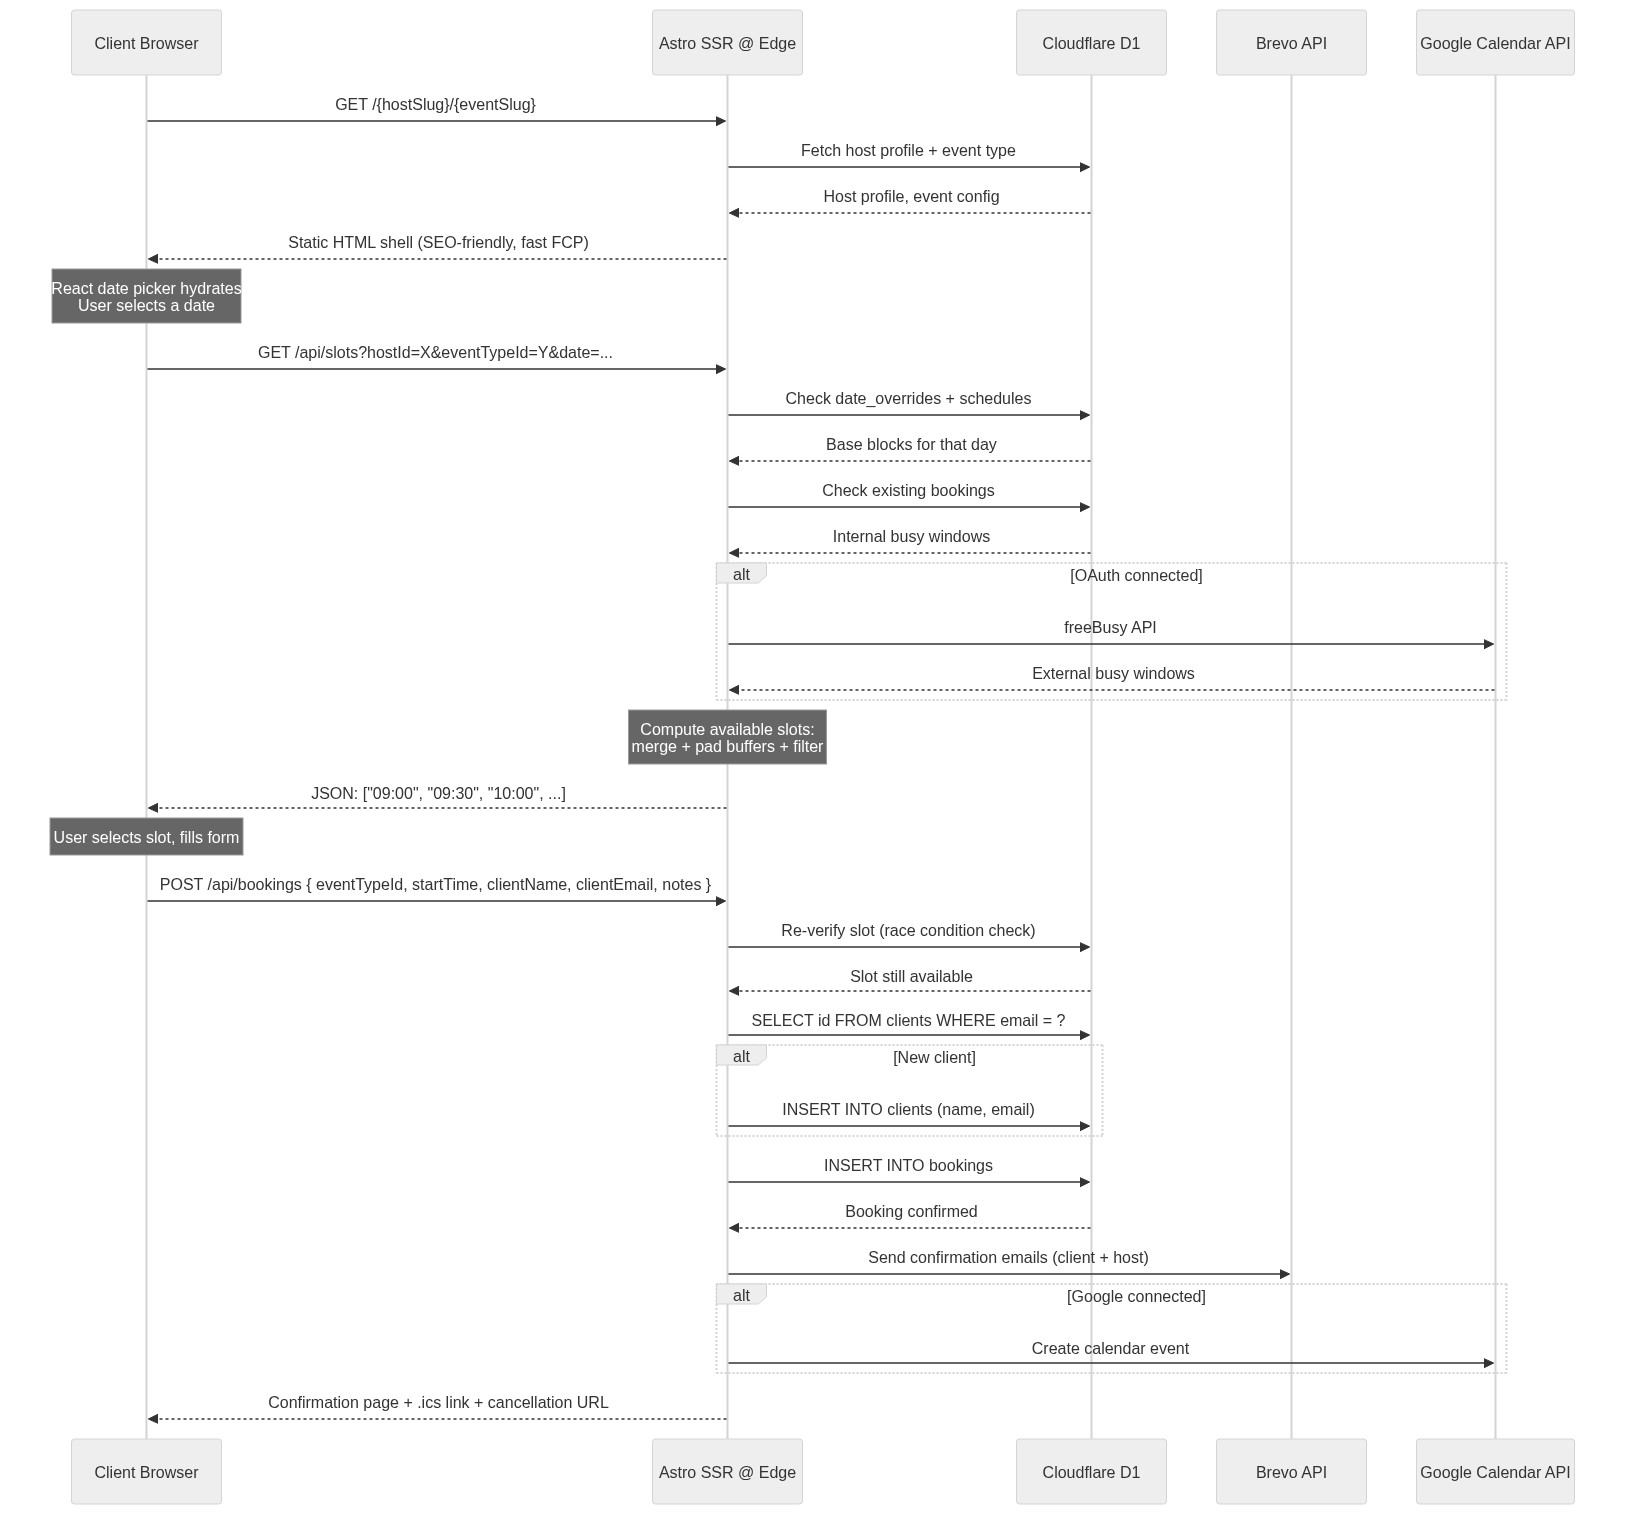
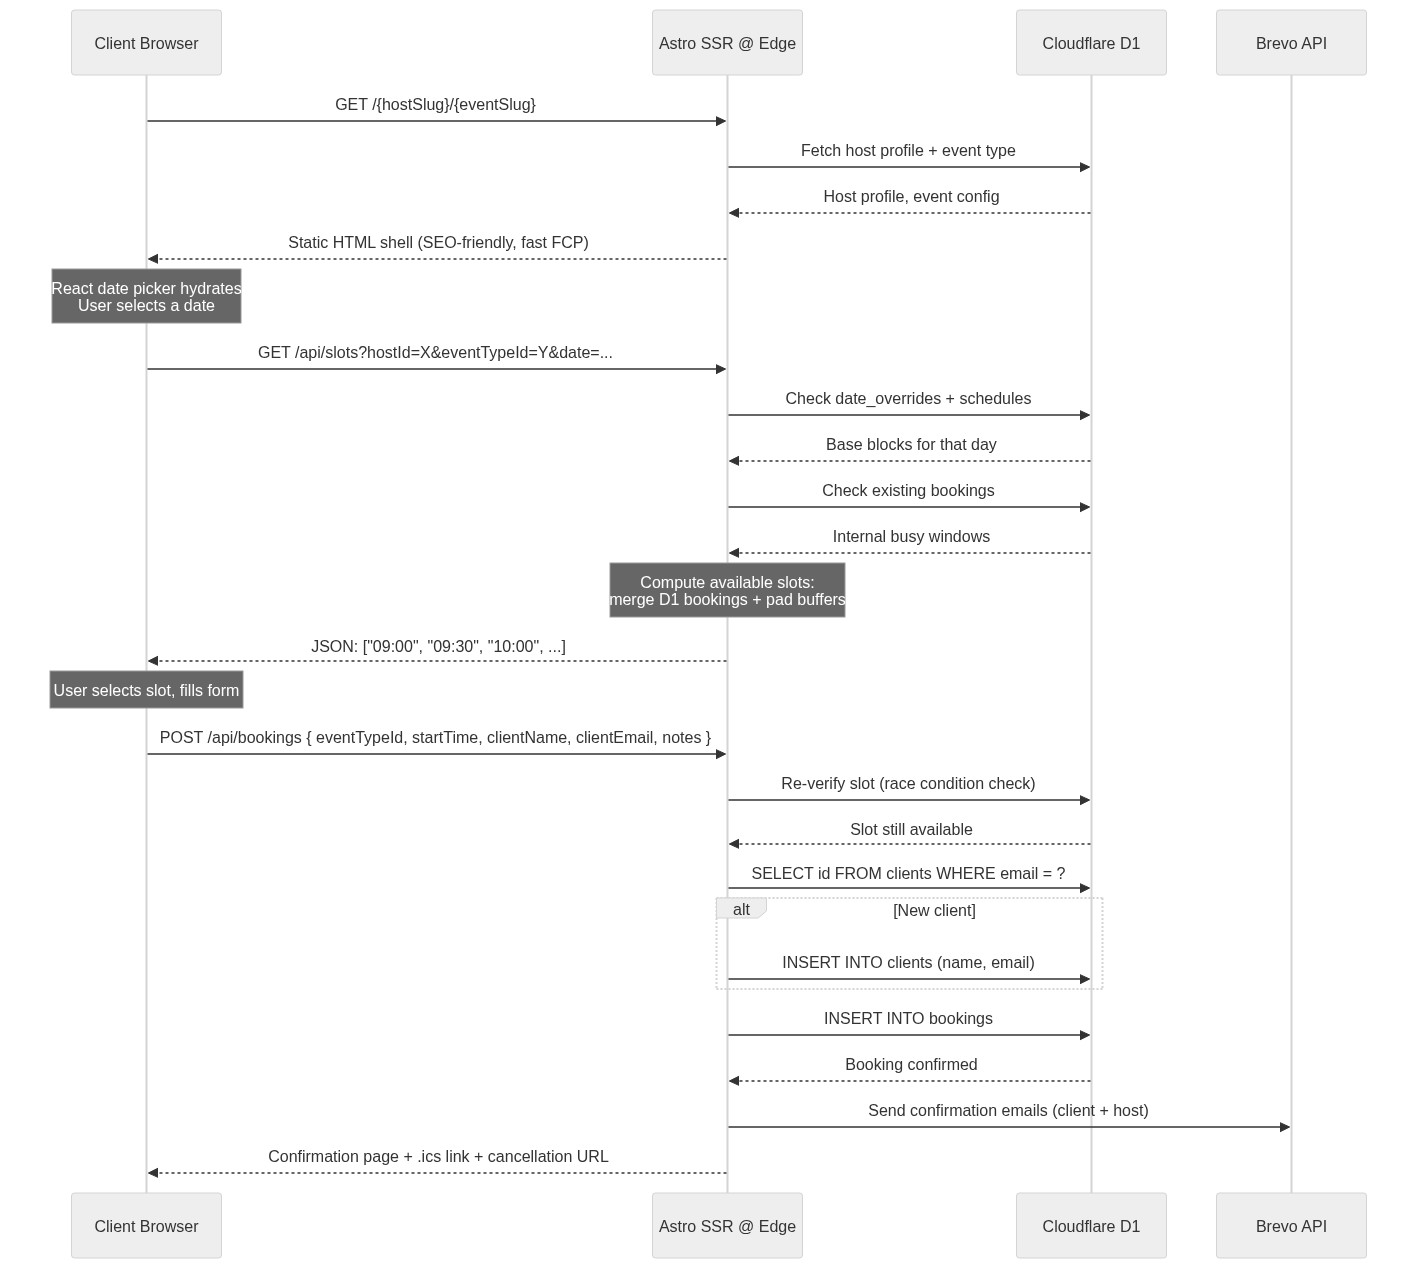
remove all google calendar api references - conflict detection from d1 only

diff --git a/prd/system-design.md b/prd/system-design.md
@@ -15,7 +15,6 @@
 | FR3 | Clients can book a meeting; system prevents double-booking | P0 |
 | FR4 | Client receives confirmation email with `.ics` attachment and cancellation link | P0 |
 | FR5 | Host receives email notification when a booking is made | P0 |
-| FR6 | Hosts can connect Google Calendar for external conflict detection | P1 |
 | FR7 | System sends daily automated reminders to Clients for upcoming meetings | P1 |
 | FR8 | Admin provisions Host accounts; no public signup | P1 |
 | FR9 | Admin dashboard shows email usage quota | P2 |
@@ -53,7 +52,8 @@ Before estimating traffic, we must establish what our **free-tier limits actuall
 | Cloudflare D1 reads | 5,000,000/day | ~250× our need (20K/day) | **250×** |
 | Cloudflare D1 writes | 100,000/day | ~833× our need (120/day) | **833×** |
 | Pages Functions | 100,000/day | ~31× our need (3,200/day) | **31×** |
-| Google Calendar API | 1,000,000/day | Effectively unlimited | **→10,000×** |
+
+> **Email is the bottleneck that defines our scale.** D1 and compute have 31× to 833× headroom. No external APIs required — everything runs off D1.
 
 > **Email is the bottleneck that defines our scale.** Brevo's 300/day cap is 3× better than Resend's 100/day, but it's still the tightest constraint. All other resources have 31× to 10,000× headroom.
 
@@ -96,7 +96,6 @@ Working backward from the **300 email/day** cap (Brevo free plan):
 | Schedules | 100 B | 900 | 270 KB |
 | Date Overrides | 200 B | 1,800 | 1.1 MB |
 | Recurring Exceptions | 180 B | 150 | 81 KB |
-| OAuth Tokens | 500 B | 27 | 40 KB |
 | Email Logs | 100 B | 109,500 | 32.8 MB |
 | Verification Codes | 150 B | 5,000 | 2.2 MB |
 | Sessions (transient) | negligible | — | — |
@@ -144,23 +143,17 @@ graph TB
         CDN --> SSR
     end
 
-    subgraph Services["Service Layer"]
+    subgraph Services["Services"]
         D1[("Cloudflare D1<br/>(SQLite Primary DB)")]
         Brevo["Brevo API<br/>(Transactional Email)"]
-        Google["Google Calendar API<br/>(External Sync)"]
         Cron["Workers Cron Trigger<br/>(Daily Reminders @ 08:00 UTC)"]
     end
 
     Browser -- "HTTPS" --> CDN
     SSR -- "SQL Queries" --> D1
     SSR -- "REST API" --> Brevo
-    SSR -- "OAuth 2.0 / freeBusy" --> Google
     Cron -- "Secure Internal Call" --> SSR
 ```
-
-> 💡 **Rendered PNG**: [`diagrams/architecture-overview.png`](./diagrams/architecture-overview.png) — for use in presentations or offline viewing.
-
-> **Legend**: Rounded boxes = processes, cylinders = databases, solid arrows = API calls, dashed arrows = background jobs.
 
 ### Component Roles
 
@@ -190,7 +183,7 @@ graph TB
 
 ### 4.1 The Booking Engine (Core Complexity)
 
-This is the **most algorithmically complex** component. It must compute available slots in real-time while merging internal and external calendars.
+This is the **most algorithmically complex** component. It must compute available slots in real-time by merging Host schedules, overrides, and existing D1 bookings.
 
 #### Data Flow: Client Books a Meeting
 
@@ -200,7 +193,6 @@ sequenceDiagram
     participant Astro as Astro SSR @ Edge
     participant D1 as Cloudflare D1
     participant Brevo as Brevo API
-    participant Google as Google Calendar API
 
     Browser->>Astro: GET /{hostSlug}/{eventSlug}
     Astro->>D1: Fetch host profile + event type
@@ -217,12 +209,7 @@ sequenceDiagram
     Astro->>D1: Check existing bookings
     D1-->>Astro: Internal busy windows
 
-    alt OAuth connected
-        Astro->>Google: freeBusy API
-        Google-->>Astro: External busy windows
-    end
-
-    Note over Astro: Compute available slots:<br/>merge + pad buffers + filter
+    Note over Astro: Compute available slots:<br/>merge D1 bookings + pad buffers
 
     Astro-->>Browser: JSON: ["09:00", "09:30", "10:00", ...]
 
@@ -242,10 +229,6 @@ sequenceDiagram
     D1-->>Astro: Booking confirmed
 
     Astro->>Brevo: Send confirmation emails (client + host)
-
-    alt Google connected
-        Astro->>Google: Create calendar event
-    end
 
     Astro-->>Browser: Confirmation page + .ics link + cancellation URL
 ```
@@ -276,15 +259,14 @@ function computeSlots(hostId, eventTypeId, date):
         for t = start; t + eventType.duration <= end; t += eventType.duration:
             candidates.push(t)
 
-    // 3. Get busy windows
-    internal = db.bookings.findConfirmedByHostAndRange(hostId, dateStart, dateEnd)
-    external = host.oauthToken
-        ? googleCalendar.freeBusy(host, dateStart, dateEnd)
-        : []
+    // 3. Get busy windows from D1 bookings only
+    busyWindows = db.bookings.findConfirmedByHostAndRange(hostId, dateStart, dateEnd)
 
-    // 4. Merge busy + pad with buffers
-    busyWindows = mergeAndPad(internal ++ external,
-                    eventType.bufferBefore, eventType.bufferAfter)
+    // 4. Pad with buffers
+    busyWindows = busyWindows.map(b => ({
+        start: b.start - eventType.bufferBefore,
+        end:   b.end   + eventType.bufferAfter
+    }))
 
     // 5. Filter + apply notice boundary
     return candidates.filter(t =>
@@ -293,7 +275,7 @@ function computeSlots(hostId, eventTypeId, date):
     )
 ```
 
-**Time complexity**: O(n × m) — n = intervals (~48 max for 30-min slots over 8 hours), m = busy windows (~20 on a busy day). Runs in **~10-30ms** at the edge.
+**Time complexity**: O(n × m) — n = intervals (~48 max for 30-min slots over 8 hours), m = busy windows (~20 on a busy day). Runs in **~10-30ms** at the edge. Only depends on D1 — no external APIs.
 
 #### API Contract
 
@@ -603,13 +585,12 @@ function computeSlots(hostId, eventTypeId, date):
         for t = start; t + eventType.duration <= end; t += eventType.duration:
             candidates.push(t)
     
-    // ── PHASE 5: Overlay busy windows (bookings + Google Calendar) ──
-    internal = db.bookings.findConfirmedByHostAndRange(hostId, dateStart, dateEnd)
-    external = host.oauthToken
-        ? googleCalendar.freeBusy(host, dateStart, dateEnd)
-        : []
-    busyWindows = mergeAndPad(internal ++ external,
-                    eventType.bufferBefore, eventType.bufferAfter)
+    // ── PHASE 5: Overlay busy windows (bookings from D1) ──
+    busyWindows = db.bookings.findConfirmedByHostAndRange(hostId, dateStart, dateEnd)
+    busyWindows = busyWindows.map(b => ({
+        start: b.start - eventType.bufferBefore,
+        end:   b.end   + eventType.bufferAfter
+    }))
     
     // ── PHASE 6: Final filter ──
     return candidates.filter(t =>
@@ -823,8 +804,7 @@ The Host can then:
 | B1 | **D1 read quota** | Slot computation queries D1 on every date selection. Exception system adds 2 extra queries per check (date_overrides + recurring_exceptions). At 5M/day cap, 250× headroom, but caching prevents waste. | Negligible at 8-Host scale |
 | B2 | **Brevo email cap** | 300 emails/day is the defining constraint. 125 bookings consume 250 emails just for confirmations. | **~25 Hosts / 125 bookings/day** |
 | B3 | **Single D1 writer** | All writes serialize through one D1 endpoint. At 0.001 avg WQPS (125 bookings/day), this is irrelevant for years. | ~50,000 writes/day |
-| B4 | **Google API quota** | Each slot check calls Google freeBusy if OAuth is connected. 1M/day limit is effectively unlimited at our scale. | Always latent |
-| B5 | **Cold start** | First request after idle period may be slow (~100ms) as Worker initializes. | Occasional |
+| B4 | **Cold start** | First request after idle period may be slow (~100ms) as Worker initializes. | Occasional |
 
 ### 5.2 Iterative Scaling (FAANG Whiteboard Style)
 
@@ -909,7 +889,6 @@ Phase 2 (100-1,000× scale, 800+ Hosts, exceeding D1 free tier):
 | Book a slot | **Strong** | Race check + D1 single-writer serializes concurrent writes |
 | Cancel a booking | **Strong** | Token lookup + D1 UPDATE in one transaction |
 | Email quota count | **Eventual** (~1 min lag) | 5-email reserve buffer absorbs overage |
-| OAuth token refresh | **Strong** | Refresh + write before API call |
 
 ### 5.4 Failure Modes
 
@@ -917,7 +896,6 @@ Phase 2 (100-1,000× scale, 800+ Hosts, exceeding D1 free tier):
 | :--- | :--- | :--- |
 | D1 unavailable | 5xx from API | "Try again" error message |
 | Brevo down | Booking completes; email queued in-app | "Save your .ics file" fallback |
-| Google API down | Slots computed from internal D1 only | Full functionality; Host warned |
 | D1 write fails mid-booking | Atomic rollback; no partial state | "Booking failed, please retry" |
 | Cron worker misses run | Next day's run picks up unreminded bookings | Delayed reminders at most |
 | JWT secret compromised | Rotate secret → all sessions invalidated | Users re-authenticate via OTP |
@@ -935,7 +913,7 @@ flowchart LR
         B -->|"D1 queries"| C["HTML page"]
         
         A2["Client"] -->|"GET /api/slots"| D["Pages Function"]
-        D -->|"D1 + Google API"| E["JSON slots"]
+        D -->|"D1 query"| E["JSON slots"]
         
         A3["Client"] -->|"POST /api/bookings"| F["Pages Function"]
         F -->|"D1 write + Brevo email"| G["Confirmation page"]

diff --git a/prd/booking-flow.md b/prd/booking-flow.md
@@ -44,13 +44,10 @@ Slice the remaining available start/end times into discrete intervals spaced by 
 
 ### Step 3: Fetching Conflicts (Busy Windows)
 1. **Internal Conflicts (D1)**: Query `bookings` in D1 matching the Host ID, where the booking state is `confirmed` and overlaps with Date `D`.
-2. **External Conflicts (Google Calendar)**:
-   * Retrieve the Host’s encrypted Google OAuth refresh token.
-   * Exchange it for a fresh access token.
-   * Call the **Google Calendar `freeBusy` API** for the start and end of Date `D`. This returns an array of absolute UTC `[start, end]` ranges when the Host is busy on their personal calendar.
+2. **Note**: The system only checks conflicts against its own D1 database. No external calendar API calls are required.
 
 ### Step 4: Merging and Filtering
-1. **Apply Buffers**: For each active block (internal or external), inflate the blocked window: `[start_time - buffer_before, end_time + buffer_after]`.
+1. **Apply Buffers**: For each active booking, inflate the blocked window: `[start_time - buffer_before, end_time + buffer_after]`.
 2. **Notice Boundary**: Remove any potential slots where the start time is earlier than `current_time + minimum_notice` (e.g., preventing same-day bookings within 4 hours).
 3. **Difference Operation**: Remove any sliced intervals that overlap with any padded blocked windows.
 4. **Timezone Shift**: Convert the remaining valid slots to the client's local timezone (`TZ_client`) and render them.
@@ -77,7 +74,7 @@ To avoid forcing clients to create passwords or perform dedicated registration l
 
 To prevent two clients from booking the exact same slot simultaneously:
 1. Immediately upon clicking "Confirm Booking" and before writing to D1, the API runs a rapid re-verification.
-2. It re-checks internal D1 bookings and does an atomic Google `freeBusy` call specifically for the selected slot `[selected_start, selected_end]`.
+2. It re-checks internal D1 bookings to ensure the selected slot `[selected_start, selected_end]` is still free.
 3. If a conflict is discovered, it terminates the write operation and alerts the client: "This slot is no longer available. Please select another time."
 
 ---
@@ -137,33 +134,20 @@ Confirmations must include standard-compliant calendar additions so clients can 
 
 ---
 
-## 6. OAuth Token Auto-Refresh Sequence
-
-External APIs (Google Calendar) provide short-lived `access_token` attributes that expire every 60 minutes. To prevent silent integration sync failures:
-1. Every time the booking engine performs a `freeBusy` API scan or schedules an appointment, the system compares the current time against the connection's `expires_at` Unix timestamp in D1.
-2. **If Expired (or within 5 minutes of expiration)**:
-   * The server executes a background HTTP `POST` to Google's OAuth endpoint: `https://oauth2.googleapis.com/token`.
-   * Passes the securely stored, decrypted `refresh_token` and client ID credentials.
-   * Retrieves a new `access_token` and lifetime.
-   * Updates the `oauth_connections` row in D1 immediately before carrying out the calendar operation.
-3. This sequence operates transparently at the edge in a fraction of a second, keeping integration channels alive indefinitely.
-
----
-
-## 7. Frictionless Secure Client Cancellation
+## 6. Frictionless Secure Client Cancellation
 
 To permit Clients to reschedule or cancel a booking without requiring them to log in or remember credentials, the system incorporates a **Secure Cancellation Token** mechanism:
 1. Every booking generated in D1 includes a uniquely generated cryptographically secure, random UUID stored in the `cancellation_token` column on the `bookings` table.
 2. The booking confirmation email contains a secure, direct link:
    `https://openschedule.pages.dev/cancel/[cancellation_token]`
 3. When clicked, the server queries D1 for the matching `cancellation_token`:
-   * **If token is found and booking status is active**: Marks the booking as `cancelled`, updates the host's connected calendar (via Google API event deletion), writes the cancellation email trigger to the telemetry log, and sends confirmations to both parties.
+   * **If token is found and booking status is active**: Marks the booking as `cancelled`, writes the cancellation email trigger to the telemetry log, and sends confirmations to both parties.
    * **If not found**: Renders a 404 or invalid token warning.
 4. This ensures total security against booking hijacks while maintaining zero friction for Clients.
 
 ---
 
-## 8. Client-Side Timezone Resolution & UTC Synchronization
+## 7. Client-Side Timezone Resolution & UTC Synchronization
 
 To eliminate timezone errors:
 1. The public calendar picker (hydrated React island) automatically detects the Client's timezone using browser native capabilities:

diff --git a/prd/installation.md b/prd/installation.md
@@ -43,13 +43,10 @@ The wizard UI is designed specifically for **non-technical staff**, complete wit
                            (Runs background CLI migrations)
                                    |
             [Step 3]  ---> Integrate Brevo API Key for Email
-                                   |
-            [Step 4]  ---> Set up Google Calendar OAuth App
-                           (Exhaustive instructions on Google Console)
-                                   |
-            [Step 5]  ---> Define Admin Profile (Name & Email)
-                                   |
-            [Step 6]  ---> Automate Pages Build & Edge Deployment
+                                    |
+            [Step 4]  ---> Define Admin Profile (Name & Email)
+                                    |
+            [Step 5]  ---> Automate Pages Build & Edge Deployment
 ```
 
 ### Step 1: Cloudflare Infrastructure Configuration
@@ -75,15 +72,7 @@ The wizard UI is designed specifically for **non-technical staff**, complete wit
 * **Fields**: Brevo API Key, Verified Sending Domain (e.g. `[email redacted]`).
 * **Validation**: Sends a test validation email to the Admin's address to verify delivery in real-time.
 
-### Step 4: Google Developer OAuth Credentials Setup
-* **User Experience**: An exhaustive, visual, non-technical walkthrough for establishing Google API keys.
-* **Instruction details**:
-  * Guarantees non-technical personnel can create a Google Cloud Project for free.
-  * Shows how to click "Enable APIs" and search for **Google Calendar API**.
-  * Explains how to set up the OAuth Consent Screen (Internal vs. External) and add the Redirect URI (e.g., `https://your-app.pages.dev/api/auth/callback/google`).
-* **Fields Collected**: Google Client ID and Google Client Secret.
-
-### Step 5: Primary Administrator Setup
+### Step 4: Primary Administrator Setup
 * **User Experience**: The installer collects the Admin's Name, Email address, and local timezone.
 * **Database Seed**: The local installer writes this record directly to the remote D1 database:
   ```sql

diff --git a/prd/software-stack.md b/prd/software-stack.md
@@ -36,12 +36,11 @@ To achieve a 100% free-tier, self-hosted, enterprise-grade scheduling platform, 
                         |      (Pages SSR & Pages Functions)        |
                         +----+------------------+----------------+--+
                              |                  |                |
-     Read/Write SQL Queries  |                  | Auth Email     | Sync & FreeBusy
-                             v                  v                v
-                 +-----------+-----------+  +---+---+  +---------+---------+
-                  |     Cloudflare D1     |  |Brevo |  |  Google/Microsoft |
-                 |    (SQLite Engine)    |  +-------+  |   Calendar APIs   |
-                 +-----------------------+             +-------------------+
+      Read/Write SQL Queries  |                  | Auth Email     
+                  v                  v
+      +-----------+-----------+  +---+---+
+      |     Cloudflare D1     |  |Brevo |
+      |    (SQLite Engine)    |  +-------+
 ```
 
 ### Cloudflare Pages
@@ -71,10 +70,6 @@ To achieve a 100% free-tier, self-hosted, enterprise-grade scheduling platform, 
 * **Role**: Scheduled task scheduler to kick off the daily alert notifier worker.
 * **Free Tier Allocation**: Up to 3 Cron Triggers per account, utilizing standard execution limits.
 
-### Google Developer Console (Calendar API)
-* **Role**: External sync endpoint for checking Host busy events and inserting new client meetings.
-* **Free Tier Allocation**: 1,000,000 Google API queries per day.
-
 ---
 
 ## 4. Wrangler Edge Configuration Layout
@@ -94,5 +89,5 @@ To bind these Edge services natively under Cloudflare without Node-related runti
   compatibility_date = "2026-05-19"
   compatibility_flags = [ "nodejs_compat" ]
   ```
-* **Variables & Secrets**: Non-sensitive settings (like `PUBLIC_APP_NAME`) are defined in standard parameters, while sensitive credentials (Brevo API Keys, Google Client Secrets, JWT Signing Seeds) are written securely via command wrappers directly into the Cloudflare dashboard as encrypted secrets.
+* **Variables & Secrets**: Non-sensitive settings (like `PUBLIC_APP_NAME`) are defined in standard parameters, while sensitive credentials (Brevo API Key, JWT Signing Seed) are written securely via command wrappers directly into the Cloudflare dashboard as encrypted secrets.
 

diff --git a/prd/database-schema.md b/prd/database-schema.md
@@ -60,21 +60,6 @@ One-time codes generated for passwordless logins. Wiped immediately on verificat
 }
 ```
 
-### Table: `oauth_connections`
-Stores encrypted OAuth credentials for connecting external calendars (Google Calendar).
-* **FK Rule**: `ON DELETE CASCADE` ensures that deleting a Host automatically purges their external calendar integration tokens.
-```typescript
-{
-  id: "TEXT" (Primary Key - UUID),
-  user_id: "TEXT" (Not Null, Foreign Key -> users.id, ON DELETE CASCADE),
-  provider: "TEXT" (Not Null - 'google' | 'microsoft'),
-  access_token: "TEXT" (Not Null, Encrypted String),
-  refresh_token: "TEXT" (Not Null, Encrypted String),
-  expires_at: "INTEGER" (Not Null, Unix Timestamp),
-  updated_at: "INTEGER" (Not Null, Unix Timestamp)
-}
-```
-
 ### Table: `schedules` (Default Weekly Hours)
 Defines default weekly availability blocks for Hosts. Multiple shifts per day are supported as separate rows (e.g. a morning shift and an afternoon shift for the same day), satisfying 1NF.
 * **FK Rule**: `ON DELETE CASCADE` ensures deleting a Host purges their schedules.
@@ -201,7 +186,6 @@ Individual scheduled appointments reserved by Clients.
   end_time: "INTEGER" (Not Null, UTC Unix Timestamp),
   status: "TEXT" (Not Null - 'confirmed' | 'cancelled', Default: 'confirmed'),
   client_notes: "TEXT",
-  google_event_id: "TEXT" (Allows Null - referenced to external event),
   cancellation_token: "TEXT" (Not Null, Unique - cryptographically secure UUID),
   reminder_sent: "INTEGER" (Not Null, Boolean: 0 | 1, Default: 0),
   created_at: "INTEGER" (Not Null, Unix Timestamp)

diff --git a/prd/index.md b/prd/index.md
@@ -25,7 +25,7 @@ This PRD is modularized into dedicated domain files for clarity, ease of mainten
 Click any functional requirement to jump directly to its complete architectural specification, schema, and implementation logic.
 
 * **[FR-1] Local Setup & Service Installer**:
-  * *Description*: A user-friendly local web wizard (`http://localhost:3000`) guides non-technical staff step-by-step through creating free Cloudflare, Google, and Brevo accounts, then automatically provisions the D1 database, applies Drizzle schema migrations, sets environment secrets, deploys edge cron triggers, and publishes the live site.
+  * *Description*: A user-friendly local web wizard (`http://localhost:3000`) guides non-technical staff step-by-step through creating free Cloudflare and Brevo accounts, then automatically provisions the D1 database, applies Drizzle schema migrations, sets environment secrets, deploys edge cron triggers, and publishes the live site.
   * *Deep Link*: **[Local Setup & Service Installer](./installation.md)**
 * **[FR-2] Passwordless OTP Authentication**:
   * *Description*: Users (Admin/Hosts) authenticate using secure 6-digit magic codes delivered via transactional emails.
@@ -37,7 +37,7 @@ Click any functional requirement to jump directly to its complete architectural 
   * *Description*: Hosts manage default weekly shifts and date-specific blockouts (vacation, split shifts) via their profile settings.
   * *Deep Link*: **[Shift Management & Booking Engine](./booking-flow.md)**
 * **[FR-5] Dynamic Double-Booking Prevention**:
-  * *Description*: Real-time overlap calculations combining internal D1 reservations and active Google Calendar API `freeBusy` blocks.
+  * *Description*: Real-time overlap calculations combining internal D1 reservations with Host-defined availability rules.
   * *Deep Link*: **[Conflict Resolution Algorithm](./booking-flow.md)**
 * **[FR-6] Client Auto-Signup**:
   * *Description*: Booking a meeting automatically registers Clients in D1, linking their chronological meeting history without requiring login credentials.
@@ -100,9 +100,9 @@ To ensure alignment across all components, the following roles and terms are str
 * **Host**: A registered user (e.g., team member, consultant) who owns schedules, date overrides, and event types. Hosts log in to configure their weekly grids and inspect their bookings ledger.
 * **Client**: An external visitor booking appointments with a Host. Clients do not log in; they register automatically upon their first booking.
 * **Administrator (Admin)**: The single super-user who boots up the platform, configures universal options, and provisions Host accounts. Standard user signups are disabled.
-* **Local Setup Wizard**: A specialized, first-run local web tool designed to guide non-technical users to hook up external credentials and automatically build, provision, and deploy the entire Cloudflare Pages & D1 architecture securely.
+* **Local Setup Wizard**: A specialized, first-run local web tool designed to guide non-technical users to create Cloudflare and Brevo accounts and automatically build, provision, and deploy the entire Cloudflare Pages & D1 architecture securely.
 * **OTP (One-Time Passcode)**: A highly secure, short-lived 6-digit numeric login code delivered via email. Used instead of passwords.
-* **Conflict Merging**: The process of cross-referencing internal D1 reservations and external calendars (Google) before presenting free slot intervals.
+* **Conflict Merging**: The process of cross-referencing D1 reservations against schedules and overrides before presenting free slot intervals.
 
 ---
 

diff --git a/prd/testing-and-cicd.md b/prd/testing-and-cicd.md
@@ -50,7 +50,7 @@ The testing matrix is divided into three distinct layers to balance execution sp
 * **Key Targets**:
   * **Admin/Host Dashboard Journey (Local Astro Server)**: Verifies host credentials verification via OTP logic and dynamic weekly grid updates on a locally-hosted production server.
   * **Booking Journey (Local Astro Server)**: Client navigates to `/[host]/[event]`, selects a slot, fills out the booking form, and verifies completion (and `.ics` downloads) without internet connectivity.
-* **Tooling**: **Playwright** (runs headlessly in CI, supports cross-browser testing across Chromium, Firefox, and WebKit). External APIs (like Google Calendar API or Brevo API) are mocked at the network layer in Playwright to keep tests deterministic.
+* **Tooling**: **Playwright** (runs headlessly in CI, supports cross-browser testing across Chromium, Firefox, and WebKit). External APIs (like Brevo API) are mocked at the network layer in Playwright to keep tests deterministic.
 
 ---
 